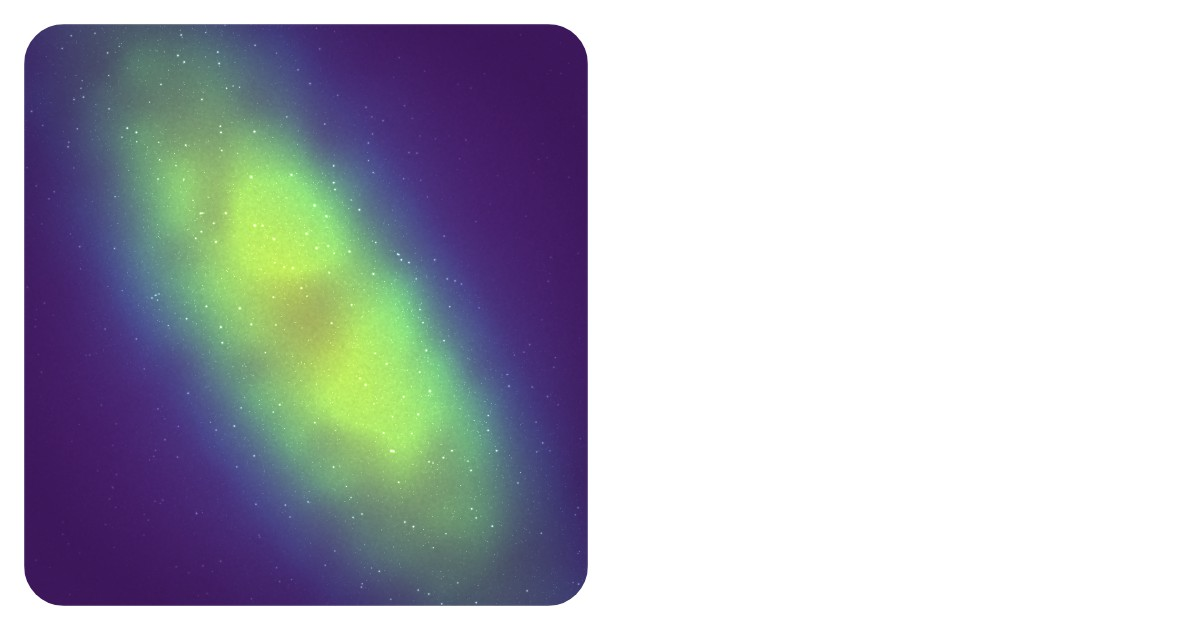
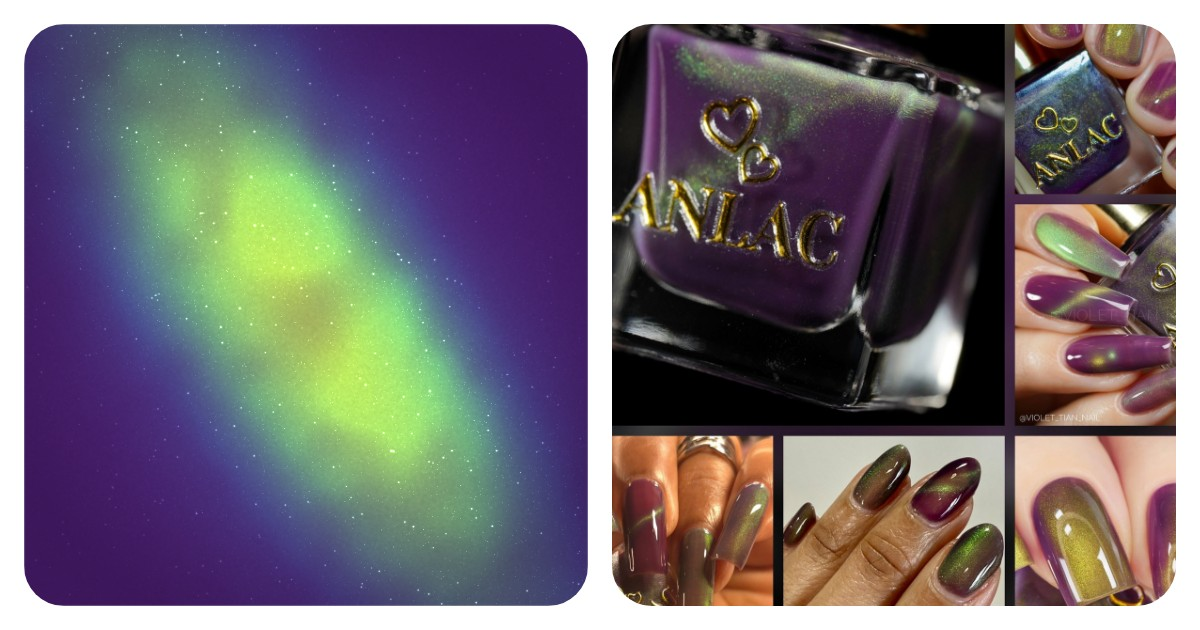
Add product photos for the 17 new polishes
Four photos each, saved from the product pages and cropped to 1200x1500
like the rest. Great Purple Emperor now uses its product description
(purple with red-orange-green flash) and Kafkaesque its deep brown.
Link previews rebuilt with the photos.

Claude-Session: https://claude.ai/code/session_01S2TzcL9C4b85zGLFVUsJZn

diff --git a/js/polishes.js b/js/polishes.js
@@ -113,6 +113,7 @@ const POLISHES = [
     colors: ["#120a16", "#f27ae0", "#d64ac8", "#9a34c0", "#5a2080"],
     shadow: "#060308",
     url: "https://www.mooncat.com/products/misa-misa",
+    photos: ["images/mooncat-misa-misa/1.jpg", "images/mooncat-misa-misa/2.jpg", "images/mooncat-misa-misa/3.jpg", "images/mooncat-misa-misa/4.jpg"], // saved from the product page
   },
   {
     id: "mooncat-nyarrian-nights",
@@ -127,6 +128,7 @@ const POLISHES = [
     shadow: "#22083e",
     grad: [.6, .6],            // hotter orange in the middle, pink to violet toward the edges
     url: "https://www.mooncat.com/products/nyarrian-nights",
+    photos: ["images/mooncat-nyarrian-nights/1.jpg", "images/mooncat-nyarrian-nights/2.jpg", "images/mooncat-nyarrian-nights/3.jpg", "images/mooncat-nyarrian-nights/4.jpg"], // saved from the product page
   },
   {
     id: "beesknees-knight-knave-optimist",
@@ -320,6 +322,7 @@ const POLISHES = [
     shadow: "#6a9c10",
     chrome: { grain: 1.2, cover: .7, sheen: 1.2 },
     url: "https://www.mooncat.com/products/manchineel-tree",
+    photos: ["images/mooncat-manchineel-tree/1.jpg", "images/mooncat-manchineel-tree/2.jpg", "images/mooncat-manchineel-tree/3.jpg", "images/mooncat-manchineel-tree/4.jpg"], // saved from the product page
   },
   {
     id: "mooncat-banished-prince",
@@ -461,6 +464,7 @@ const POLISHES = [
     shadow: "#b8b4c0",
     chrome: { grain: 1, cover: 1, sheen: 1.6 },
     url: "https://www.mooncat.com/products/pearl-clutcher",
+    photos: ["images/mooncat-pearl-clutcher/1.jpg", "images/mooncat-pearl-clutcher/2.jpg", "images/mooncat-pearl-clutcher/3.jpg", "images/mooncat-pearl-clutcher/4.jpg"], // saved from the product page
   },
   {
     id: "mooncat-into-the-abyss",
@@ -472,6 +476,7 @@ const POLISHES = [
     // Deep midnight blue creme (from the product page and order photo)
     colors: ["#141c3c"],
     url: "https://www.mooncat.com/products/into-the-abyss",
+    photos: ["images/mooncat-into-the-abyss/1.jpg", "images/mooncat-into-the-abyss/2.jpg", "images/mooncat-into-the-abyss/3.jpg", "images/mooncat-into-the-abyss/4.jpg"], // saved from the product page
   },
   {
     id: "mooncat-kafkaesque",
@@ -480,9 +485,10 @@ const POLISHES = [
     effect: "creme",
     effects: ["creme"],
     tone: "neutral",
-    // Espresso black creme from the Tale of 5 Lacquers set: reads near black with a brown undertone (from the order photo)
-    colors: ["#22161a"],
+    // Deep brown creme from the Tale of 5 Lacquers set (from the product page and photos)
+    colors: ["#33201b"],
     url: "https://www.mooncat.com/products/kafkaesque",
+    photos: ["images/mooncat-kafkaesque/1.jpg", "images/mooncat-kafkaesque/2.jpg", "images/mooncat-kafkaesque/3.jpg", "images/mooncat-kafkaesque/4.jpg"], // saved from the product page
   },
   {
     id: "mooncat-moonjelly",
@@ -513,6 +519,7 @@ const POLISHES = [
     // Buildable, milky lavender grey jelly (from the product description and order photo)
     colors: ["#a596bc"],
     url: "https://crackedpolish.com/products/taro-milk-tea",
+    photos: ["images/cracked-taro-milk-tea/1.jpg", "images/cracked-taro-milk-tea/2.jpg", "images/cracked-taro-milk-tea/3.jpg", "images/cracked-taro-milk-tea/4.jpg"], // saved from the product page
   },
   {
     id: "mooncat-the-avatar-state",
@@ -629,11 +636,13 @@ const POLISHES = [
     name: "Great Purple Emperor",
     brand: "Awesome Nail Polish",
     effect: "magnetic",
+    effects: ["magnetic", "multichrome"],
     tone: "bold",
-    // ANLAC butterfly collection: deep violet base with a bright purple magnetic flash (from the order photo; the product page wouldn't load)
-    colors: ["#2a1250", "#c78cff", "#9a52f0", "#6a2ad0"],
+    // ANLAC butterfly collection: purple base with fine red-orange-green magnetic shimmer (from the product page and photos)
+    colors: ["#3a167a", "#d49aff", "#b066f0", "#d86a8a", "#c89a50", "#7ab860"], // purple flash with warm and green edges
     shadow: "#160830",
     url: "https://awesomenailpolish.com/products/great-purple-emperor",
+    photos: ["images/anp-great-purple-emperor/1.jpg", "images/anp-great-purple-emperor/2.jpg", "images/anp-great-purple-emperor/3.jpg", "images/anp-great-purple-emperor/4.jpg"], // saved from the product page
   },
   {
     id: "anp-sapphire-morpho",
@@ -645,6 +654,7 @@ const POLISHES = [
     colors: ["#0e2a78", "#7ab8ff", "#4a7cf0", "#5a50d8"],
     shadow: "#06143e",
     url: "https://awesomenailpolish.com/products/sapphire-morpho",
+    photos: ["images/anp-sapphire-morpho/1.jpg", "images/anp-sapphire-morpho/2.jpg", "images/anp-sapphire-morpho/3.jpg", "images/anp-sapphire-morpho/4.jpg"], // saved from the product page
   },
   {
     id: "anp-balinese-swallowtail",
@@ -657,6 +667,7 @@ const POLISHES = [
     colors: ["#4a1c6c", "#c8f05a", "#7ee08a", "#4ab4d8", "#4a6ad0"],
     shadow: "#260c3c",
     url: "https://awesomenailpolish.com/products/balinese-swallowtail",
+    photos: ["images/anp-balinese-swallowtail/1.jpg", "images/anp-balinese-swallowtail/2.jpg", "images/anp-balinese-swallowtail/3.jpg", "images/anp-balinese-swallowtail/4.jpg"], // saved from the product page
   },
   {
     id: "anp-yotsuya-kaidan",
@@ -671,6 +682,7 @@ const POLISHES = [
     flakes: ["#ff9ac0", "#ffb060", "#f2d060"],
     sparkle: { density: 3, floor: .3, size: 1.1, colors: ["#ffffff", "#ff9ac0", "#ffb060", "#f2d060"], mix: .7 },
     url: "https://awesomenailpolish.com/products/yotsuya-kaidan",
+    photos: ["images/anp-yotsuya-kaidan/1.jpg", "images/anp-yotsuya-kaidan/2.jpg", "images/anp-yotsuya-kaidan/3.jpg", "images/anp-yotsuya-kaidan/4.jpg"], // saved from the product page
   },
   {
     id: "anp-peachy",
@@ -684,6 +696,7 @@ const POLISHES = [
     shadow: "#c08c7c",
     sparkle: { density: 2.5, floor: .3, colors: ["#ffffff", "#ffb060", "#f2d060", "#a8e080"], mix: .7 },
     url: "https://awesomenailpolish.com/products/peachy",
+    photos: ["images/anp-peachy/1.jpg", "images/anp-peachy/2.jpg", "images/anp-peachy/3.jpg", "images/anp-peachy/4.jpg"], // saved from the product page
   },
   {
     id: "anp-cranberry-iced-tea",
@@ -696,6 +709,7 @@ const POLISHES = [
     colors: ["#b8204a", "#ffd870", "#f4a850", "#e07048"],
     shadow: "#6e0c28",
     url: "https://awesomenailpolish.com/products/cranberry-iced-tea",
+    photos: ["images/anp-cranberry-iced-tea/1.jpg", "images/anp-cranberry-iced-tea/2.jpg", "images/anp-cranberry-iced-tea/3.jpg", "images/anp-cranberry-iced-tea/4.jpg"], // saved from the product page
   },
   {
     id: "anp-fuyu",
@@ -708,6 +722,7 @@ const POLISHES = [
     colors: ["#e2c4d0", "#d4d0ff", "#b4b0f4", "#c8b4e8"],
     shadow: "#b498b0",
     url: "https://awesomenailpolish.com/products/fuyu",
+    photos: ["images/anp-fuyu/1.jpg", "images/anp-fuyu/2.jpg", "images/anp-fuyu/3.jpg", "images/anp-fuyu/4.jpg"], // saved from the product page
   },
   {
     id: "cracked-lahar",
@@ -720,6 +735,7 @@ const POLISHES = [
     colors: ["#4a4450", "#f4c870", "#e0a050", "#c07040", "#8a5a6a"],
     shadow: "#26222c",
     url: "https://crackedpolish.com/products/lahar",
+    photos: ["images/cracked-lahar/1.jpg", "images/cracked-lahar/2.jpg", "images/cracked-lahar/3.jpg", "images/cracked-lahar/4.jpg"], // saved from the product page
   },
   {
     id: "cracked-scorchy",
@@ -734,6 +750,7 @@ const POLISHES = [
     shadow: "#1a0e08",
     sparkle: { density: 1.5, dark: .3 },
     url: "https://crackedpolish.com/products/scorchy",
+    photos: ["images/cracked-scorchy/1.jpg", "images/cracked-scorchy/2.jpg", "images/cracked-scorchy/3.jpg", "images/cracked-scorchy/4.jpg"], // saved from the product page
   },
   {
     id: "cracked-hibernaty",
@@ -747,6 +764,7 @@ const POLISHES = [
     colors: ["#3a2a24", "#f4c09a", "#d48a6a", "#b0604a"],
     shadow: "#1c120e",
     url: "https://crackedpolish.com/products/hibernaty",
+    photos: ["images/cracked-hibernaty/1.jpg", "images/cracked-hibernaty/2.jpg", "images/cracked-hibernaty/3.jpg", "images/cracked-hibernaty/4.jpg"], // saved from the product page
   },
   {
     id: "prettydiva-sunset-chrome-powder",
